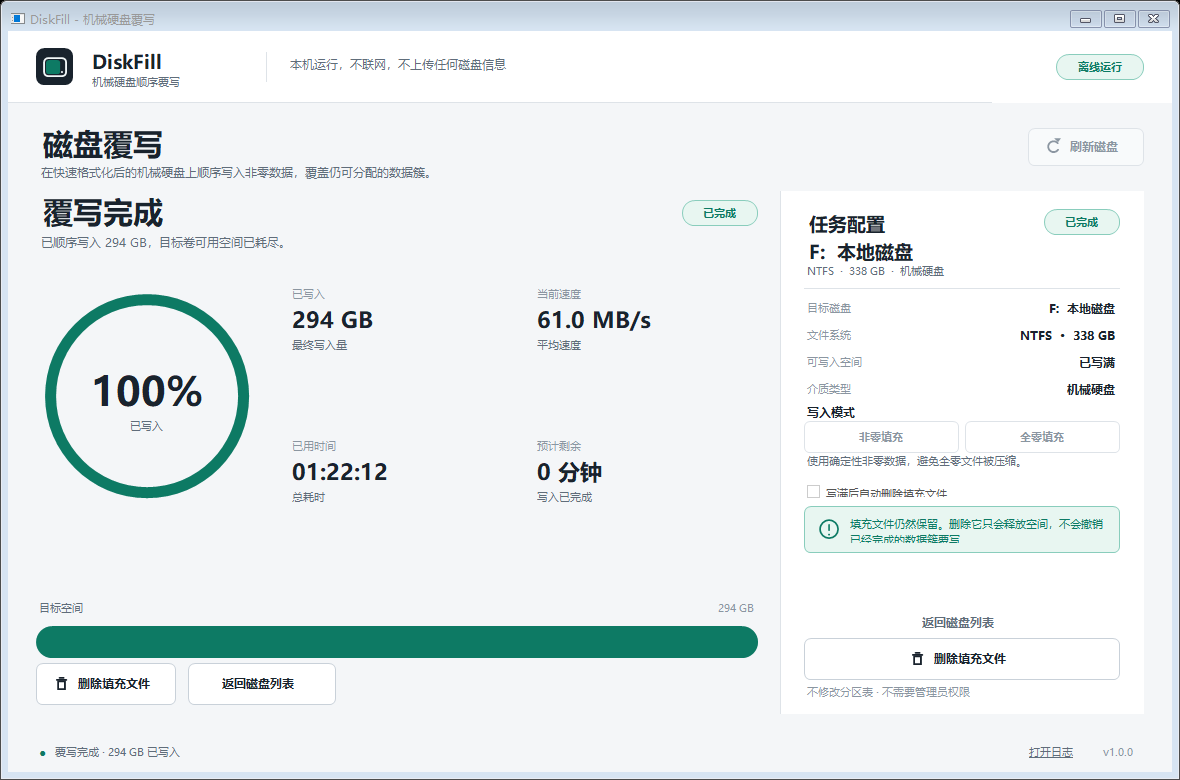
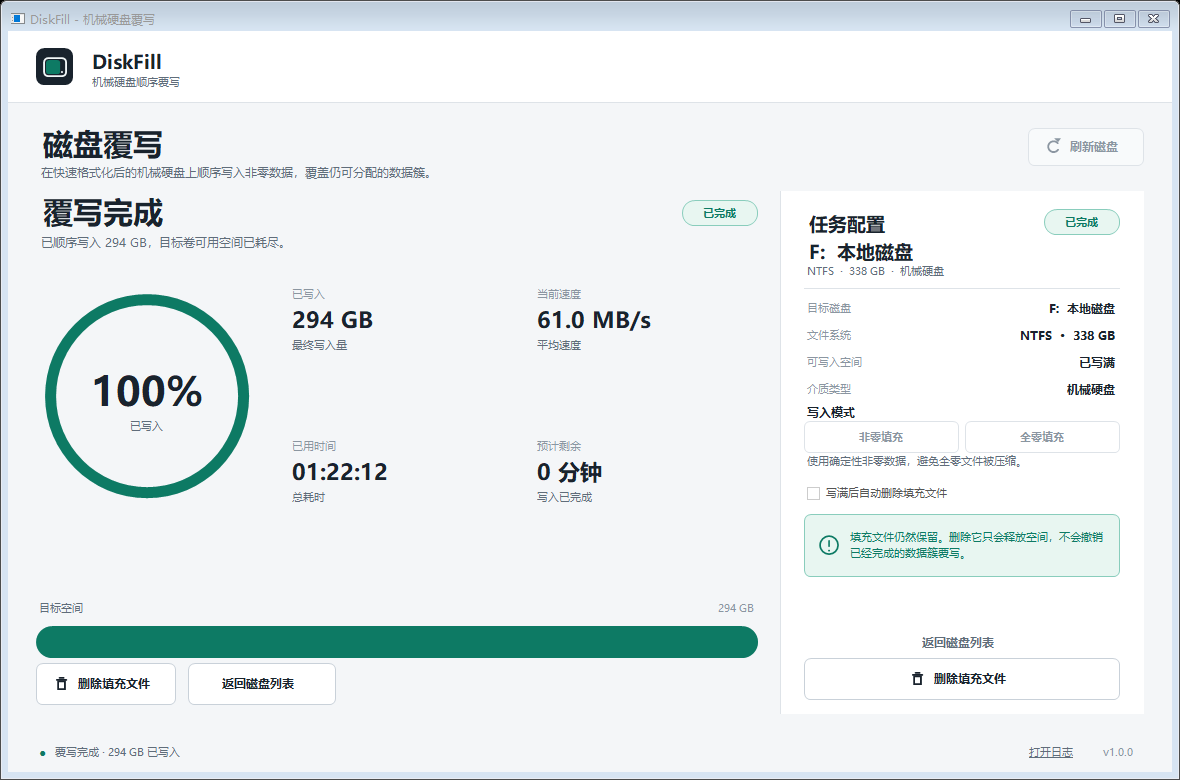
feat: refine DiskFill interface and notices

diff --git a/DiskFill/UI/MainForm.cs b/DiskFill/UI/MainForm.cs
@@ -176,42 +176,10 @@ namespace DiskFill.UI
                 Location = new Point(81, 43),
                 Text = "机械硬盘顺序覆写"
             };
-            var separator = new Panel
-            {
-                BackColor = AppTheme.Border,
-                Location = new Point(258, 21),
-                Size = new Size(1, 30)
-            };
-            var localText = new Label
-            {
-                AutoSize = true,
-                Font = AppTheme.Body,
-                ForeColor = AppTheme.Muted,
-                Location = new Point(279, 25),
-                Text = "本机运行，不联网，不上传任何磁盘信息"
-            };
-
-            var rightPanel = new Panel
-            {
-                Dock = DockStyle.Right,
-                Width = 180,
-                BackColor = AppTheme.Surface
-            };
-            var offlinePill = new StatusPill
-            {
-                Text = "离线运行",
-                Tone = PillTone.Accent,
-                Size = new Size(88, 26),
-                Location = new Point(64, 23)
-            };
-            rightPanel.Controls.Add(offlinePill);
 
             bar.Controls.Add(mark);
             bar.Controls.Add(title);
             bar.Controls.Add(subtitle);
-            bar.Controls.Add(separator);
-            bar.Controls.Add(localText);
-            bar.Controls.Add(rightPanel);
             return bar;
         }
 
@@ -335,14 +303,13 @@ namespace DiskFill.UI
                 Dock = DockStyle.Fill,
                 BackColor = AppTheme.Canvas,
                 ColumnCount = 1,
-                RowCount = 3,
+                RowCount = 2,
                 Margin = Padding.Empty,
                 Padding = Padding.Empty
             };
             layout.ColumnStyles.Add(new ColumnStyle(SizeType.Percent, 100));
             layout.RowStyles.Add(new RowStyle(SizeType.Absolute, 44));
             layout.RowStyles.Add(new RowStyle(SizeType.Percent, 100));
-            layout.RowStyles.Add(new RowStyle(SizeType.Absolute, 78));
 
             var listHeader = new Panel
             {
@@ -375,16 +342,8 @@ namespace DiskFill.UI
                 Margin = Padding.Empty
             };
 
-            var notice = new NoticeBar
-            {
-                Dock = DockStyle.Fill,
-                Margin = new Padding(0, 8, 0, 0),
-                Text = "仅对非系统本地卷生效，已识别的 SSD 会被阻止。开始后会建立隐藏任务目录并顺序写入，不修改分区表；中途可暂停或继续。"
-            };
-
             layout.Controls.Add(listHeader, 0, 0);
             layout.Controls.Add(_driveFlow, 0, 1);
-            layout.Controls.Add(notice, 0, 2);
             view.Controls.Add(layout);
             return view;
         }
@@ -622,7 +581,7 @@ namespace DiskFill.UI
                 Dock = DockStyle.Fill,
                 BackColor = AppTheme.Surface,
                 ColumnCount = 1,
-                RowCount = 13,
+                RowCount = 12,
                 Margin = Padding.Empty,
                 Padding = Padding.Empty
             };
@@ -634,12 +593,11 @@ namespace DiskFill.UI
             layout.RowStyles.Add(new RowStyle(SizeType.Absolute, 18));
             layout.RowStyles.Add(new RowStyle(SizeType.Absolute, 32));
             layout.RowStyles.Add(new RowStyle(SizeType.Absolute, 24));
-            layout.RowStyles.Add(new RowStyle(SizeType.Absolute, 26));
-            layout.RowStyles.Add(new RowStyle(SizeType.Absolute, 52));
+            layout.RowStyles.Add(new RowStyle(SizeType.Absolute, 34));
+            layout.RowStyles.Add(new RowStyle(SizeType.Absolute, 68));
             layout.RowStyles.Add(new RowStyle(SizeType.Percent, 100));
             layout.RowStyles.Add(new RowStyle(SizeType.Absolute, 30));
             layout.RowStyles.Add(new RowStyle(SizeType.Absolute, 42));
-            layout.RowStyles.Add(new RowStyle(SizeType.Absolute, 20));
 
             var sideHeader = new Panel
             {
@@ -751,10 +709,12 @@ namespace DiskFill.UI
             _deleteAfterCompletionCheckBox = new CheckBox
             {
                 Dock = DockStyle.Fill,
+                AutoSize = false,
                 Font = AppTheme.Small,
                 ForeColor = AppTheme.Muted,
                 Text = "写满后自动删除填充文件",
-                Padding = new Padding(0, 5, 0, 0),
+                TextAlign = ContentAlignment.MiddleLeft,
+                Padding = Padding.Empty,
                 UseVisualStyleBackColor = true
             };
             _deleteAfterCompletionCheckBox.CheckedChanged += delegate
@@ -792,16 +752,6 @@ namespace DiskFill.UI
             };
             _primaryButton.Click += async delegate { await OnPrimaryActionAsync(); };
 
-            var finePrint = new Label
-            {
-                Dock = DockStyle.Fill,
-                Font = AppTheme.Small,
-                ForeColor = AppTheme.Faint,
-                Text = "不修改分区表 · 不需要管理员权限",
-                TextAlign = ContentAlignment.BottomLeft,
-                Margin = Padding.Empty
-            };
-
             layout.Controls.Add(sideHeader, 0, 0);
             layout.Controls.Add(selectionPanel, 0, 1);
             layout.Controls.Add(rule, 0, 2);
@@ -814,7 +764,6 @@ namespace DiskFill.UI
             layout.Controls.Add(new Panel { Dock = DockStyle.Fill, BackColor = AppTheme.Surface }, 0, 9);
             layout.Controls.Add(_cleanupButton, 0, 10);
             layout.Controls.Add(_primaryButton, 0, 11);
-            layout.Controls.Add(finePrint, 0, 12);
             side.Controls.Add(layout);
             return side;
         }
@@ -868,7 +817,7 @@ namespace DiskFill.UI
                 Font = AppTheme.Small,
                 ForeColor = AppTheme.Muted,
                 Location = new Point(44, 8),
-                Text = "本机处理 · 无遥测 · .NET Framework 4.8"
+                Text = "就绪 · .NET Framework 4.8"
             };
             var logLink = new LinkLabel
             {
@@ -957,7 +906,7 @@ namespace DiskFill.UI
                 AdjustDriveCardWidths();
                 _footerStatusLabel.Text = snapshot.Drives.Count == 0
                     ? "未发现可处理的本地磁盘"
-                    : "磁盘扫描完成 · 所有处理均在本机完成";
+                    : "磁盘扫描完成";
             }
             catch (Exception exception)
             {
